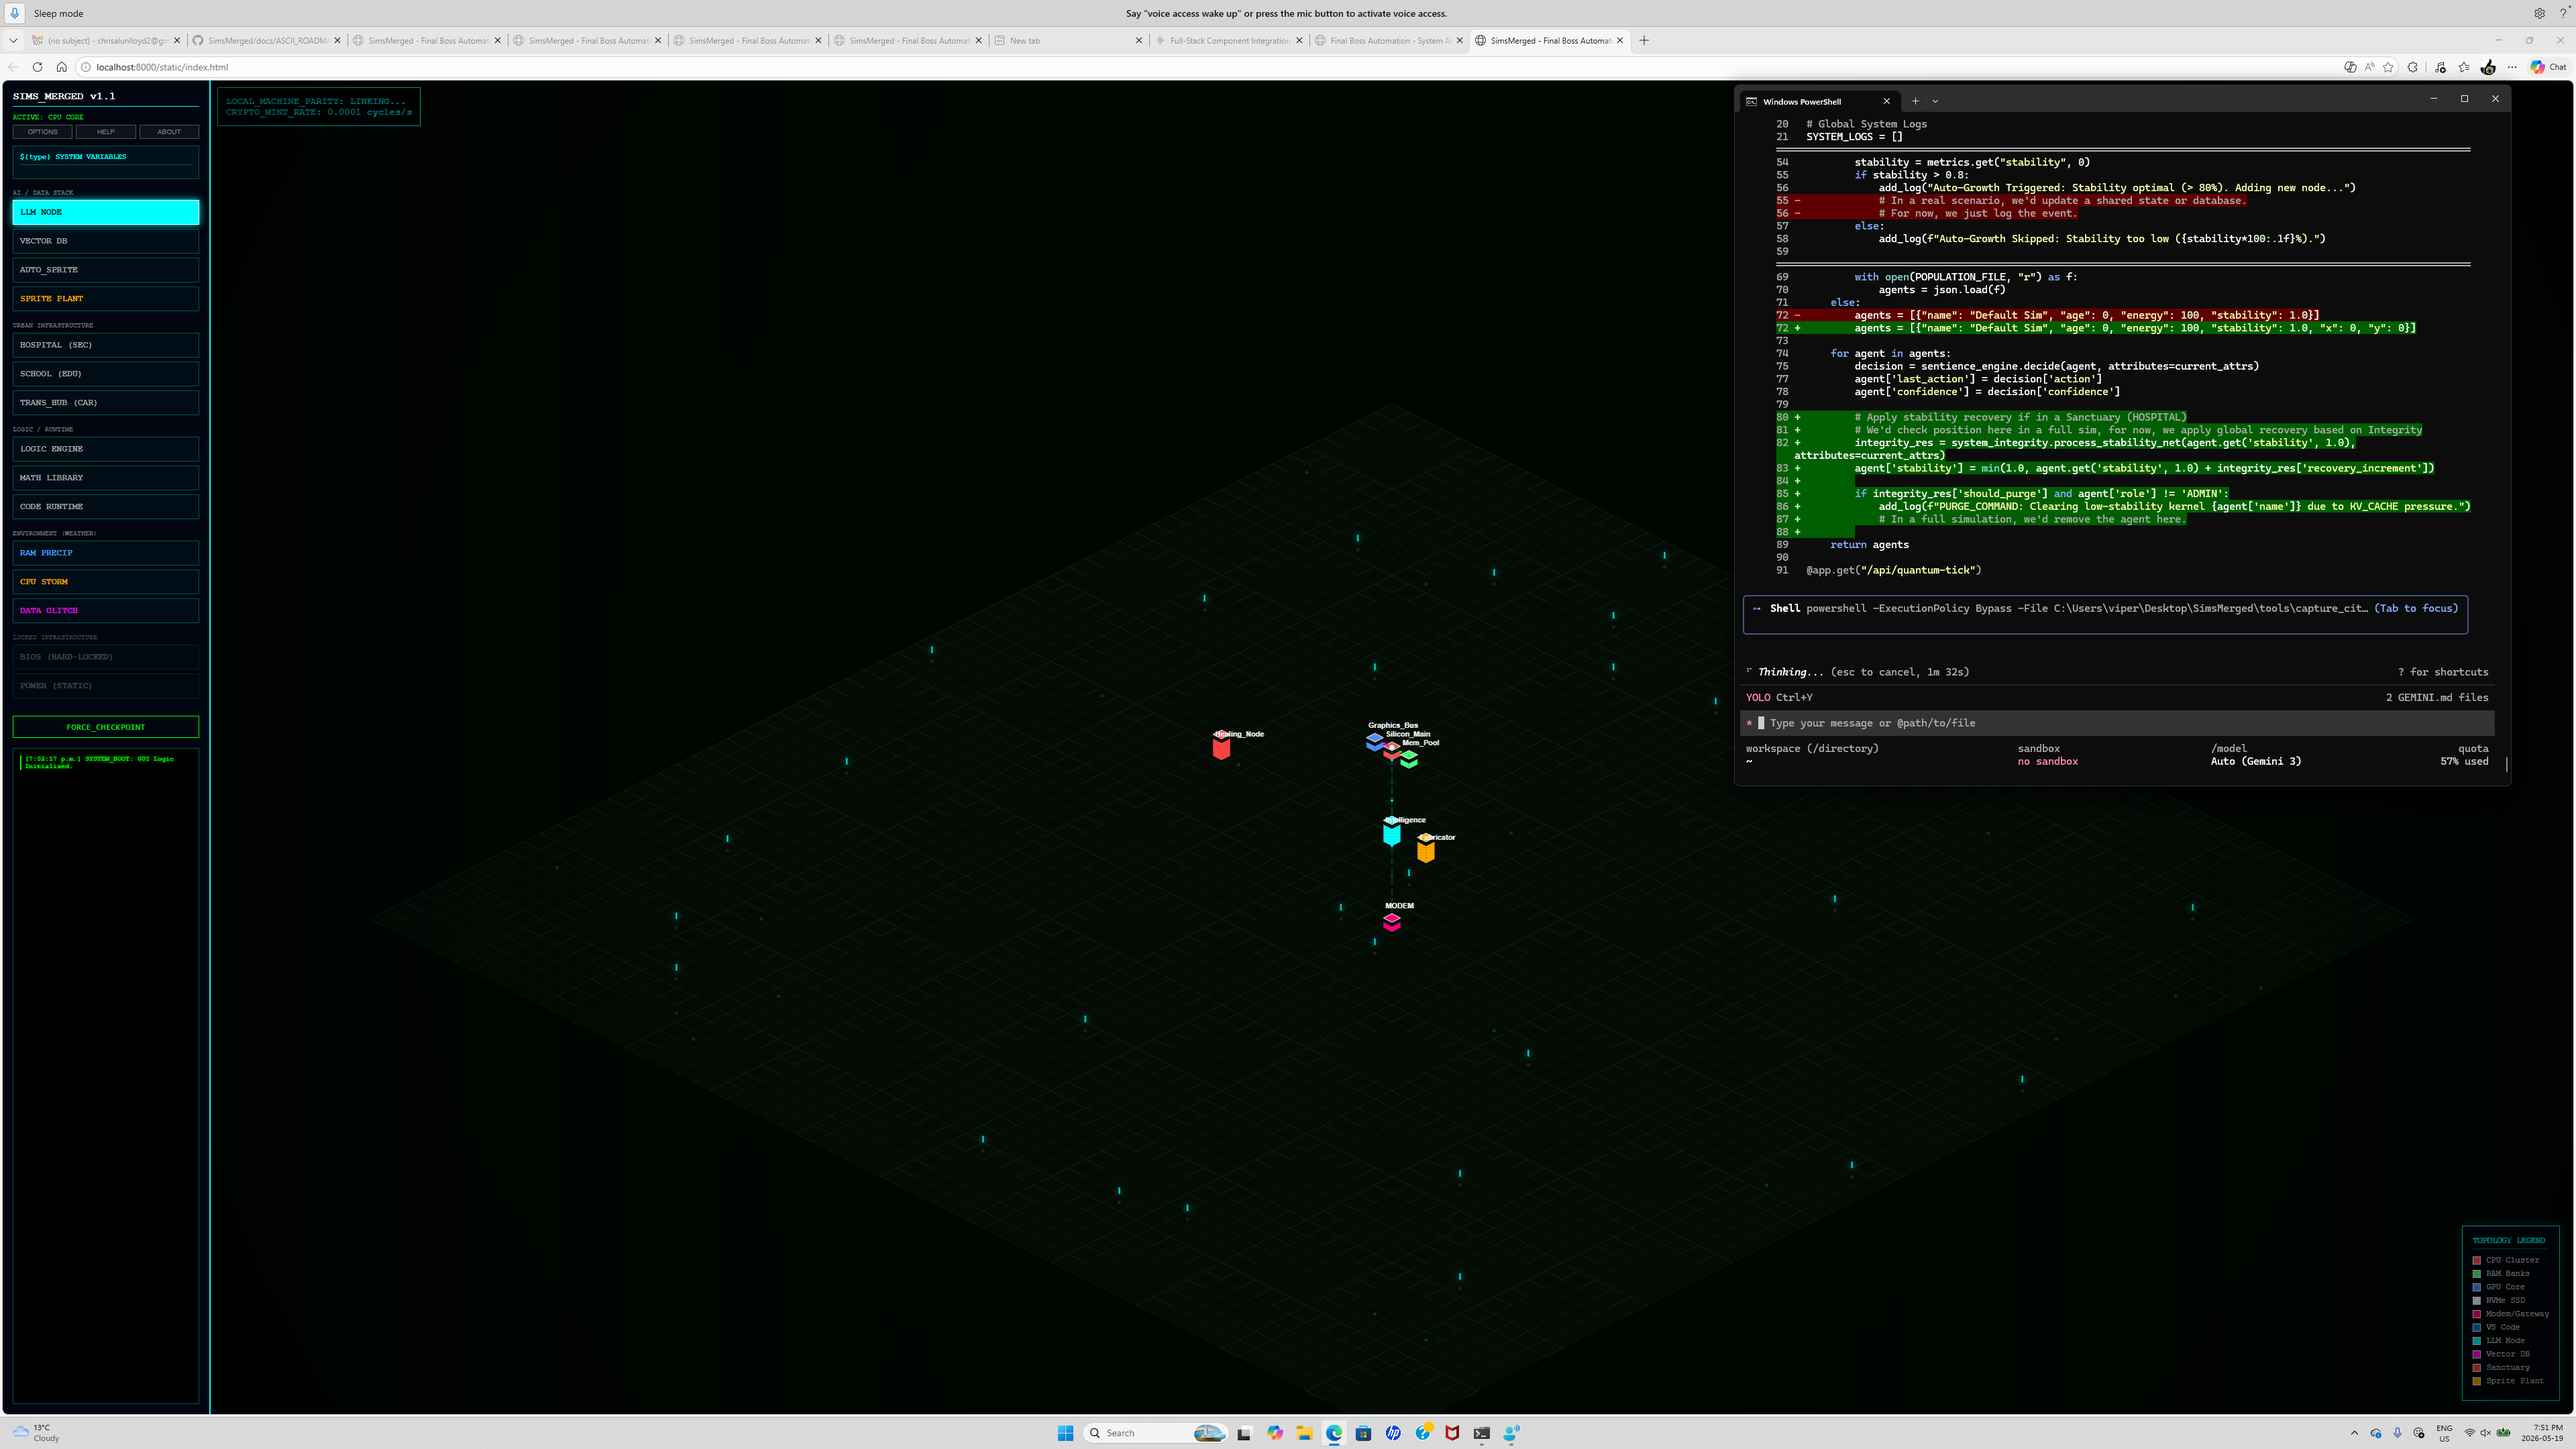
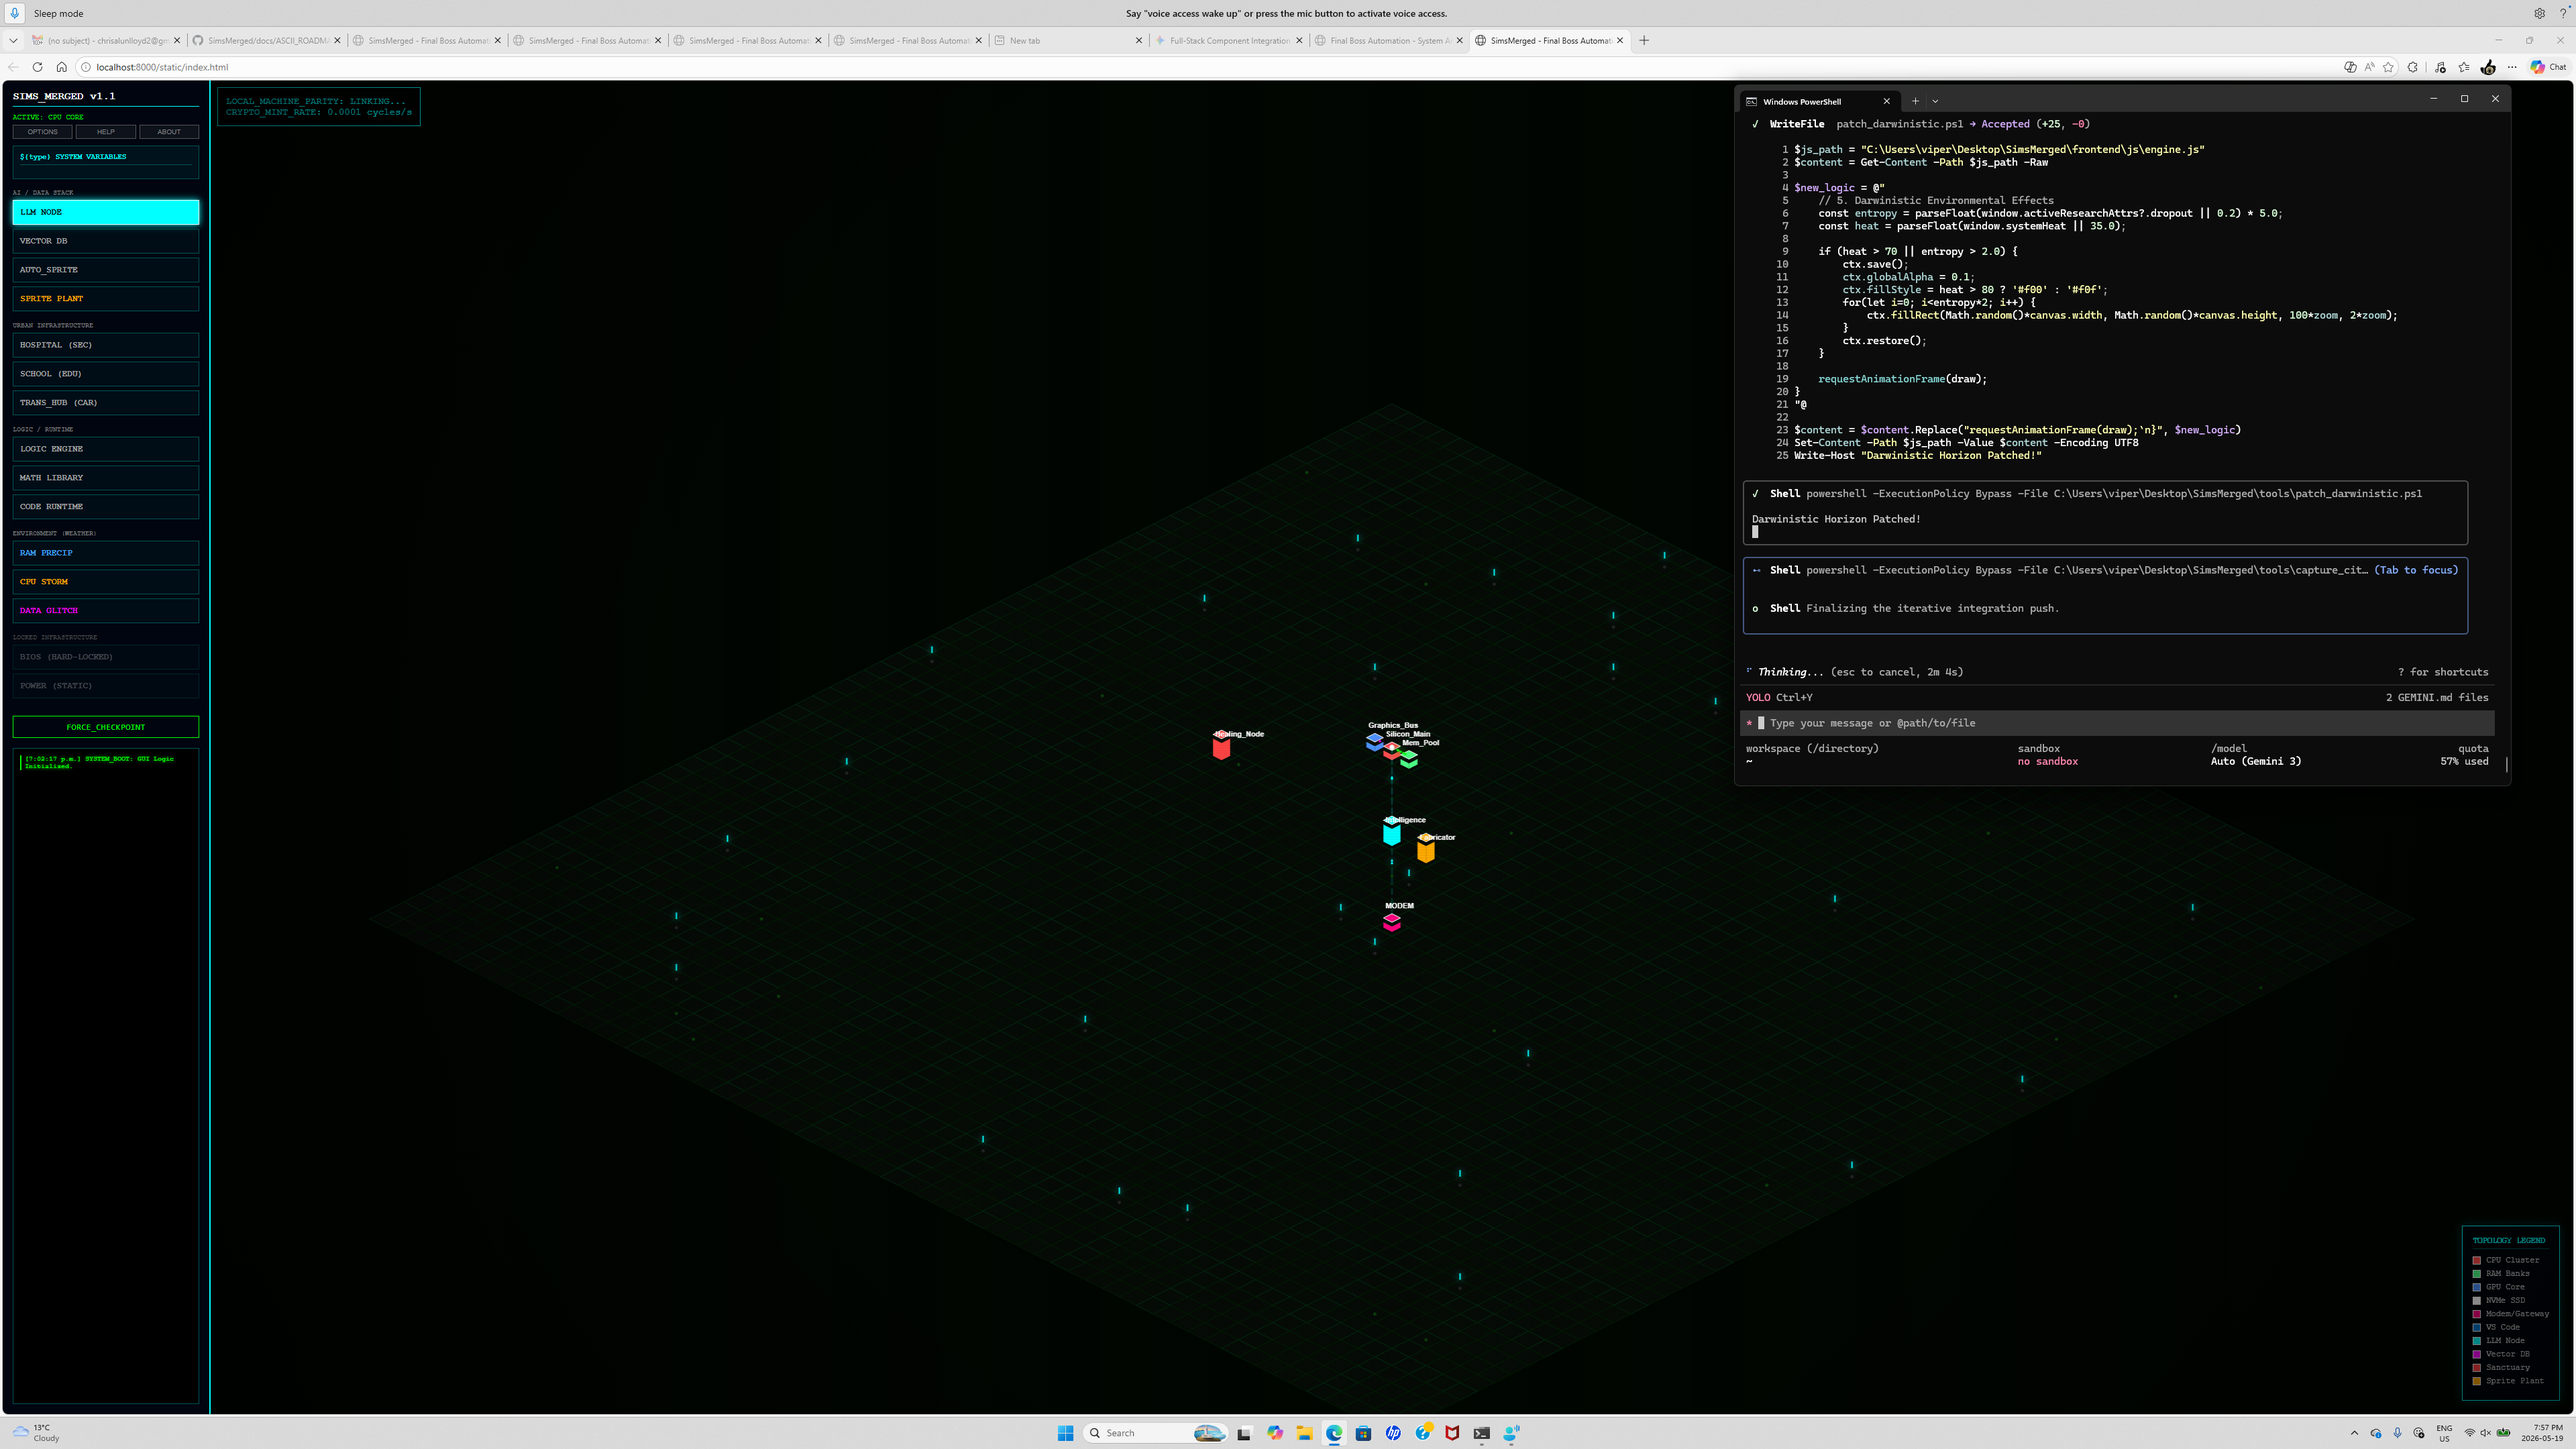
feat: Reactive Darwinistic Horizon (Evolution/Heat) driven by Phase 5 research attributes

Changed region(s): [[0.6875, 0.062, 0.9688, 0.4343]]

diff --git a/frontend/js/engine.js b/frontend/js/engine.js
@@ -384,3 +384,4 @@ window.agents = [ { x: 0, y: 0, name: 'ADMIN_ROOT', role: 'ADMIN' } ];
 draw();
 
 
+

diff --git a/tools/patch_darwinistic.py b/tools/patch_darwinistic.py
@@ -1,0 +1,33 @@
+import os
+
+js_path = r"C:\Users\viper\Desktop\SimsMerged\frontend\js\engine.js"
+
+with open(js_path, "r", encoding="utf-8") as f:
+    content = f.read()
+
+# We want to add environmental effects based on active research attrs
+new_draw_loop_extension = """
+    // 5. Darwinistic Environmental Effects
+    const entropy = parseFloat(window.activeResearchAttrs?.dropout || 0.2) * 5.0;
+    const heat = parseFloat(window.systemHeat || 35.0);
+    
+    if (heat > 70 || entropy > 2.0) {
+        ctx.save();
+        ctx.globalAlpha = 0.1;
+        ctx.fillStyle = heat > 80 ? '#f00' : '#f0f';
+        for(let i=0; i<entropy*2; i++) {
+            ctx.fillRect(Math.random()*canvas.width, Math.random()*canvas.height, 100*zoom, 2*zoom);
+        }
+        ctx.restore();
+    }
+    
+    requestAnimationFrame(draw);
+}
+"""
+
+content = content.replace("requestAnimationFrame(draw);\n}", new_draw_loop_extension)
+
+with open(js_path, "w", encoding="utf-8") as f:
+    f.write(content)
+
+print("Engine patched: Darwinistic Horizon effects are now live!")
